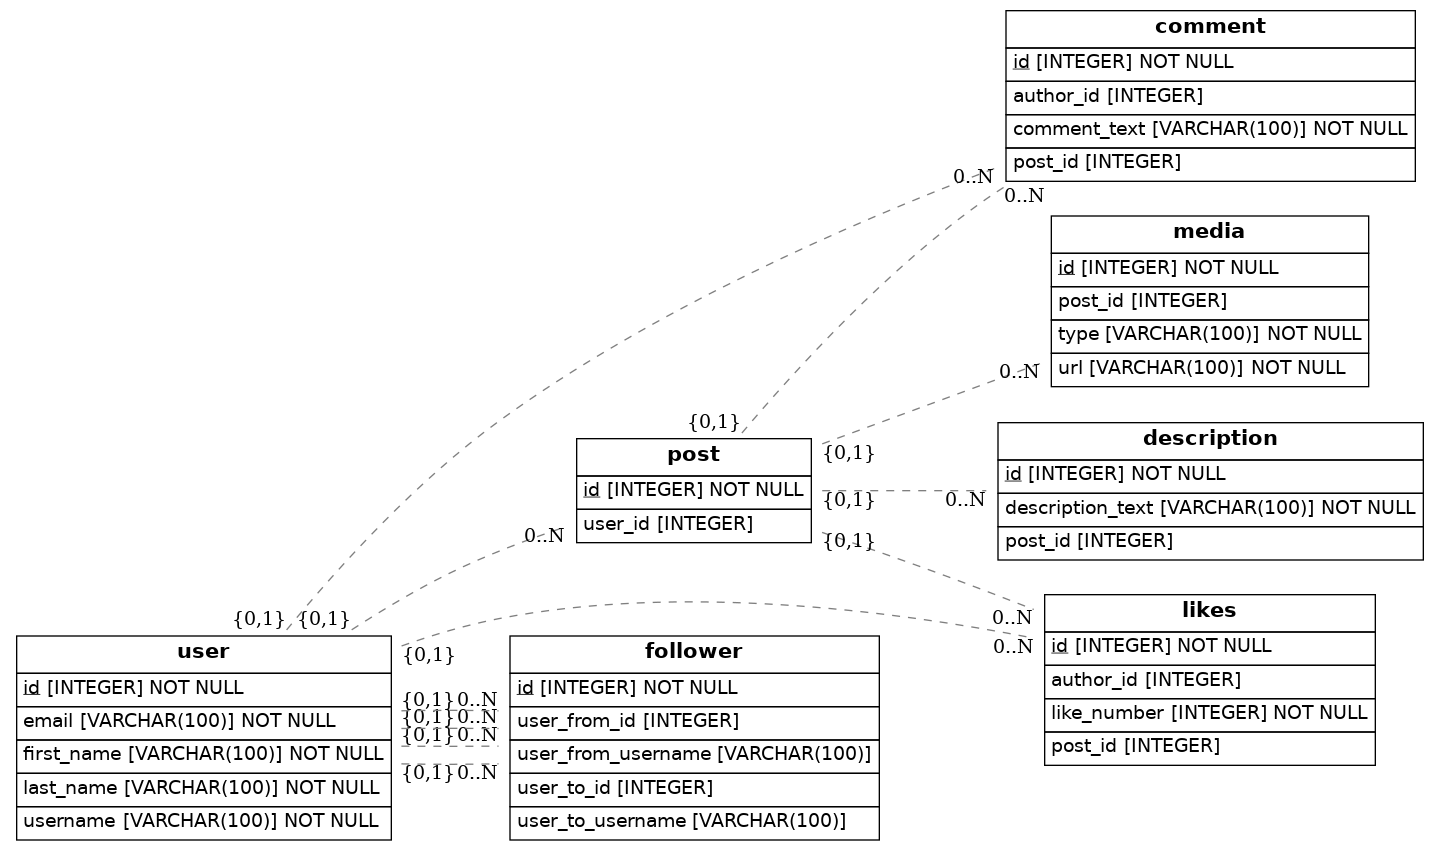
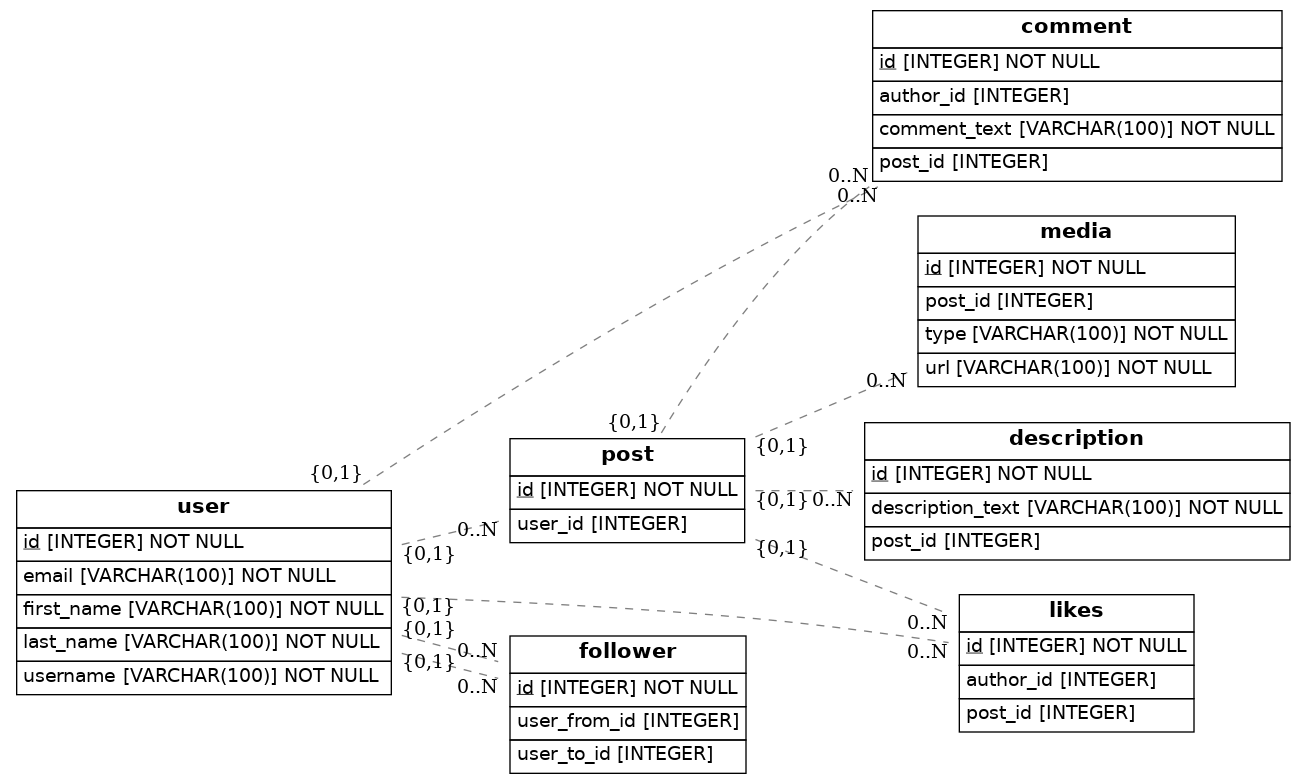
some corrections for likes and followers

diff --git a/src/models.py b/src/models.py
@@ -43,7 +43,6 @@ class Description(Base):
 class Likes(Base):
     __tablename__ = 'likes'
     id = Column(Integer, primary_key=True)
-    like_number = Column(Integer, nullable=False)
     author_id = Column(Integer, ForeignKey("user.id"))
     post_id = Column(Integer, ForeignKey("post.id"))
 
@@ -52,8 +51,6 @@ class Follower(Base):
     id = Column(Integer, primary_key=True)
     user_from_id = Column(Integer, ForeignKey("user.id"))
     user_to_id = Column(Integer, ForeignKey("user.id"))
-    user_from_username = Column(String(100), ForeignKey("user.username"))
-    user_to_username = Column(String(100), ForeignKey("user.username"))
 
     def to_dict(self):
         return {}
